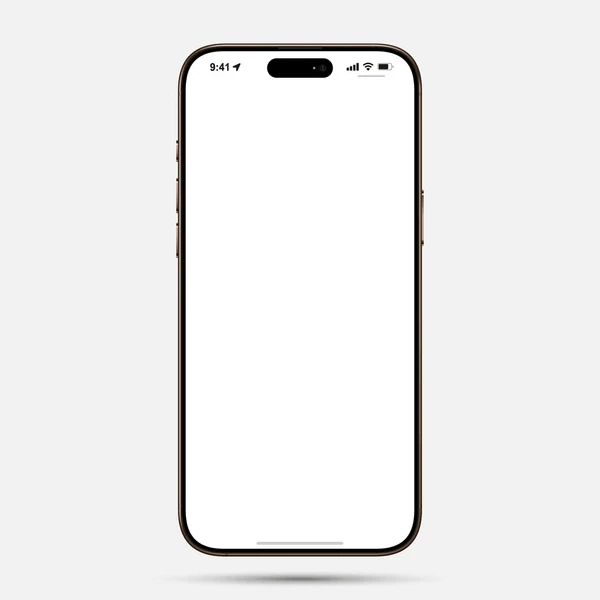
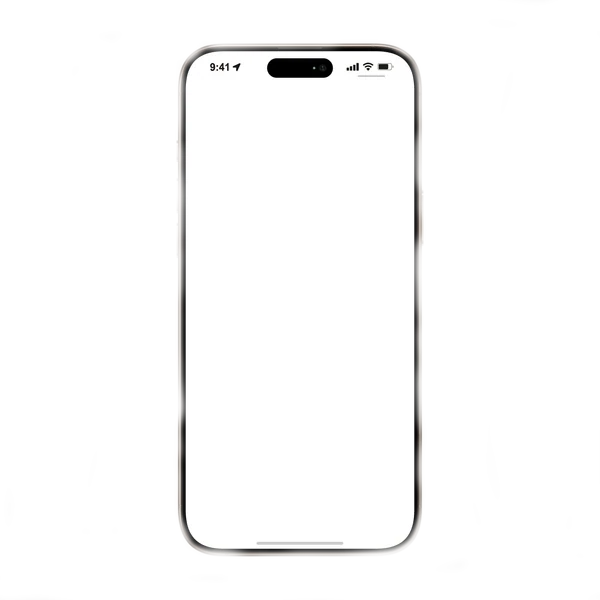
atualização

Changed region(s): [[0.27, 0.06, 0.72, 0.99]]

diff --git a/index.html b/index.html
@@ -31,7 +31,7 @@
             transform: translate(-50%, -50%);
             height: 550px;
             width: 500px;
-            background: url('imagens/imagem08.png') no-repeat;
+            background: url('imagens/imagem45.webp') no-repeat;
         }
     </style>
 </head>
